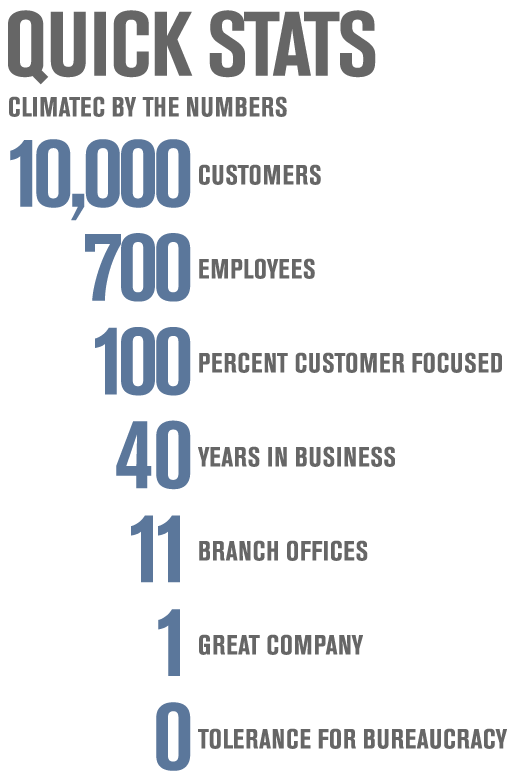
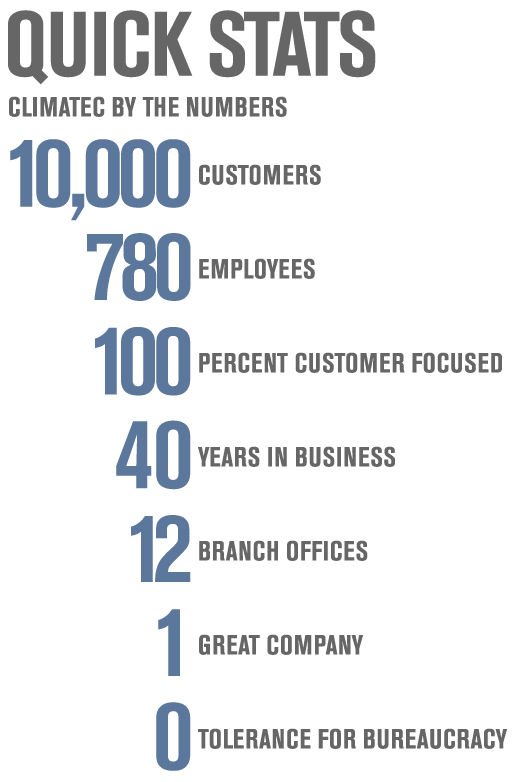
update content to match Bosch ownership

Changed region(s): [[0.1562, 0.3069, 0.3125, 0.399], [0.2812, 0.6445, 0.375, 0.7673], [0.3438, 0.3069, 0.375, 0.3683]]

diff --git a/vision.html b/vision.html
@@ -57,10 +57,7 @@
 				<div class="wrapper">
 					<h1>Mission</h1>
 					<p>
-						to be our customers' first-choice in building solutions by
-						focusing on sales and operational excellence, world-class
-						service, technology innovation, and investing in employees
-						whose expertise and professionalism are second to none.
+						To be our customers’ first-choice in building solutions by focusing on operational excellence, world-class service, technology innovation, and investing in employees whose expertise and professionalism is second to none.
 					</p>
 					<img src="img/arrow2.png"/>
 				</div>

diff --git a/README.md b/README.md
@@ -1,0 +1,7 @@
+# joinclimatec
+
+
+### Developed in 2014
+
+
+Revision needed after Bosch bought these guys out
